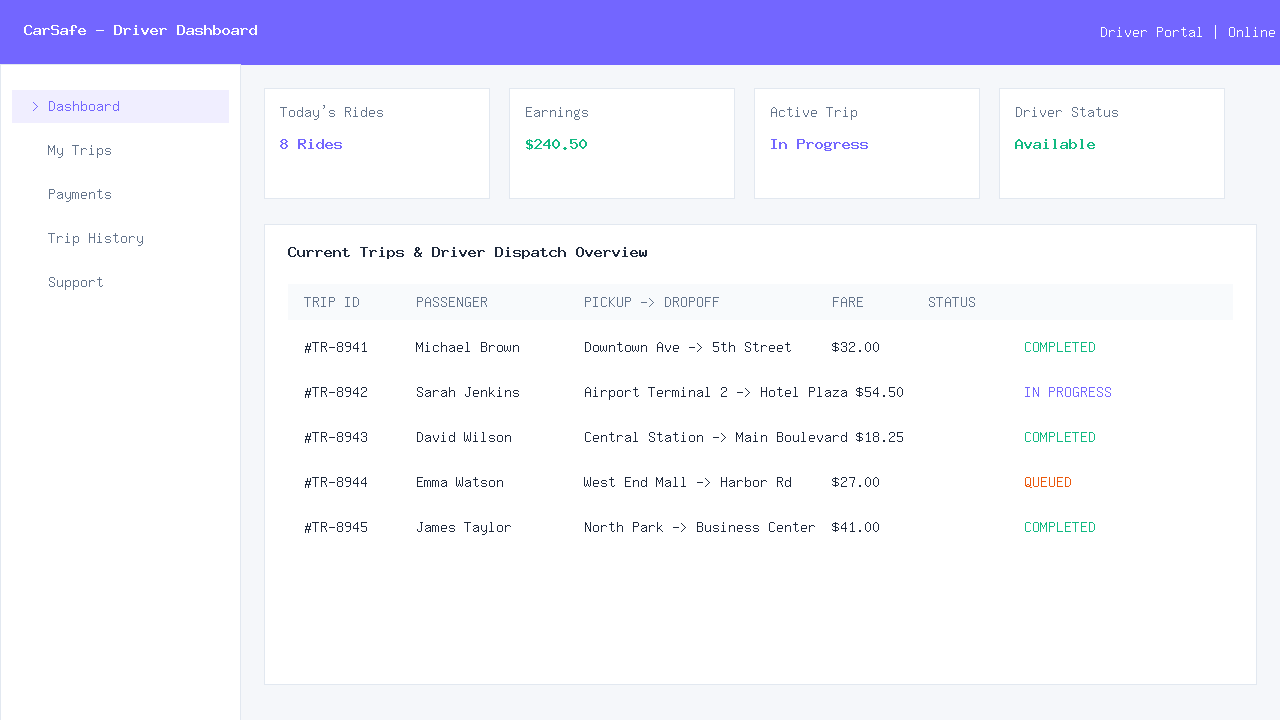
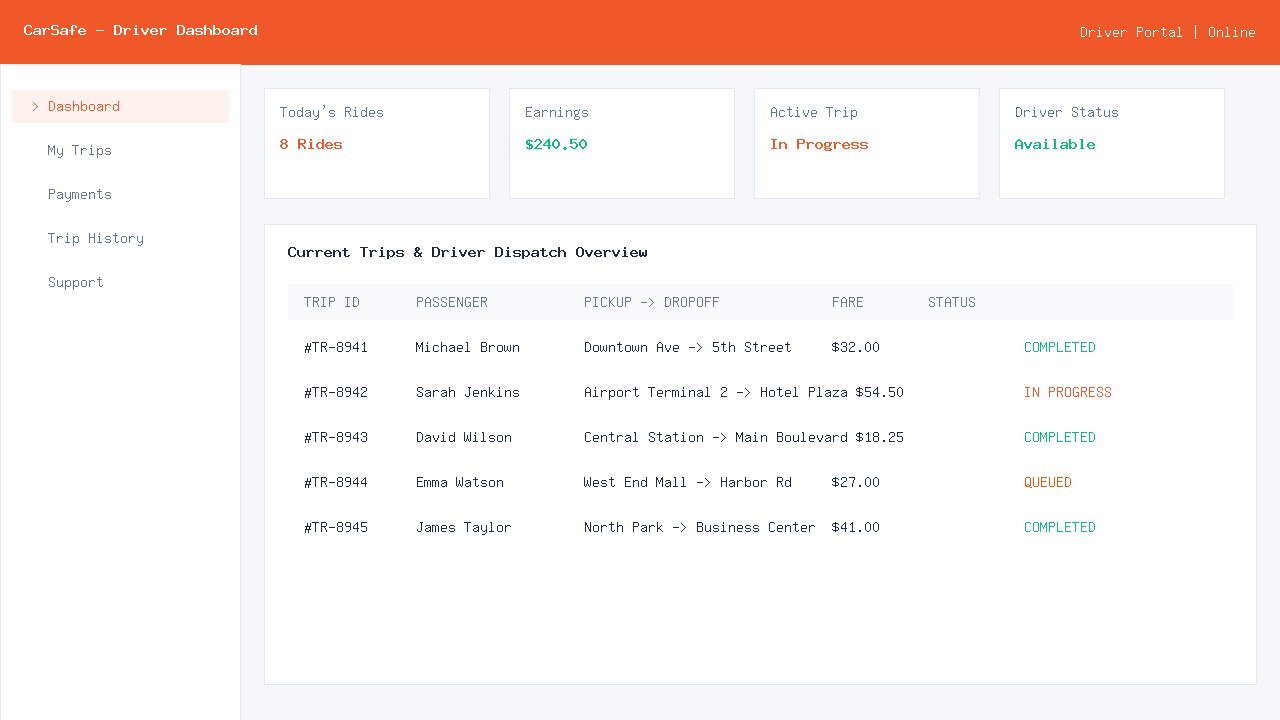
style(pwa): update theme color to CarSafe brand orange (#F05829)

Changed region(s): [[0.0, 0.0, 1.0, 0.0917], [0.625, 0.1833, 0.6875, 0.2139], [0.2188, 0.1833, 0.25, 0.2139]]

diff --git a/public/offline.html b/public/offline.html
@@ -32,7 +32,7 @@
         .icon-wrapper {
             width: 72px;
             height: 72px;
-            background-color: rgba(115, 102, 255, 0.1);
+            background-color: rgba(240, 88, 41, 0.1);
             border-radius: 50%;
             display: inline-flex;
             align-items: center;
@@ -42,7 +42,7 @@
         .icon-wrapper svg {
             width: 36px;
             height: 36px;
-            stroke: #7366ff;
+            stroke: #F05829;
             fill: none;
             stroke-width: 2;
             stroke-linecap: round;
@@ -64,7 +64,7 @@
             display: block;
             width: 100%;
             padding: 13px;
-            background-color: #7366ff;
+            background-color: #F05829;
             color: #ffffff;
             border: none;
             border-radius: 10px;
@@ -74,7 +74,7 @@
             transition: background-color 0.2s ease, transform 0.1s ease;
         }
         .retry-btn:hover {
-            background-color: #5d4ee3;
+            background-color: #d84517;
         }
         .retry-btn:active {
             transform: scale(0.98);

diff --git a/resources/views/auth-layout.blade.php b/resources/views/auth-layout.blade.php
@@ -11,7 +11,7 @@
     <!-- Progressive Web App (PWA) Tags for Driver -->
     @if(!request()->is('admin*') && !request()->is('customer*'))
     <link rel="manifest" href="{{ asset('manifest.json') }}">
-    <meta name="theme-color" content="#7366ff">
+    <meta name="theme-color" content="#F05829">
     <meta name="apple-mobile-web-app-capable" content="yes">
     <meta name="apple-mobile-web-app-status-bar-style" content="default">
     <meta name="apple-mobile-web-app-title" content="CarSafe Driver">

diff --git a/resources/views/layout.blade.php b/resources/views/layout.blade.php
@@ -8,7 +8,7 @@
 
     <!-- Progressive Web App (PWA) Tags -->
     <link rel="manifest" href="{{ asset('manifest.json') }}">
-    <meta name="theme-color" content="#7366ff">
+    <meta name="theme-color" content="#F05829">
 
     <!-- Apple iOS Safari Specific Meta Tags -->
     <meta name="apple-mobile-web-app-capable" content="yes">

diff --git a/resources/views/layouts/app.blade.php b/resources/views/layouts/app.blade.php
@@ -9,7 +9,7 @@
 
     <!-- PWA Manifest -->
     <link rel="manifest" href="{{ asset('manifest.json') }}">
-    <meta name="theme-color" content="#7366ff">
+    <meta name="theme-color" content="#F05829">
 
     <!-- Apple iOS Safari Meta Tags -->
     <meta name="apple-mobile-web-app-capable" content="yes">
